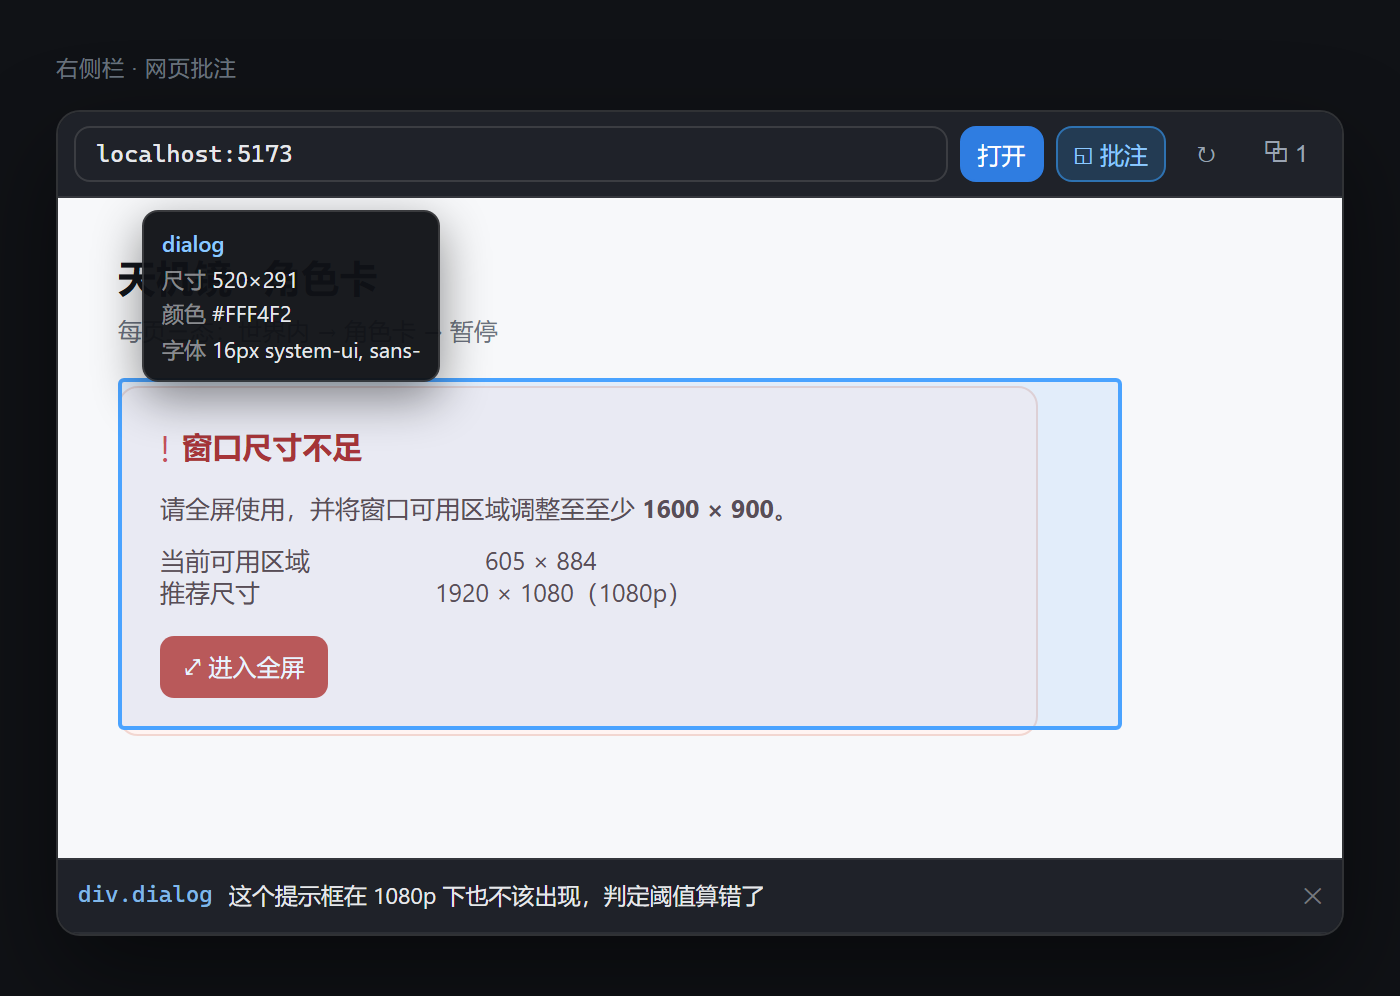
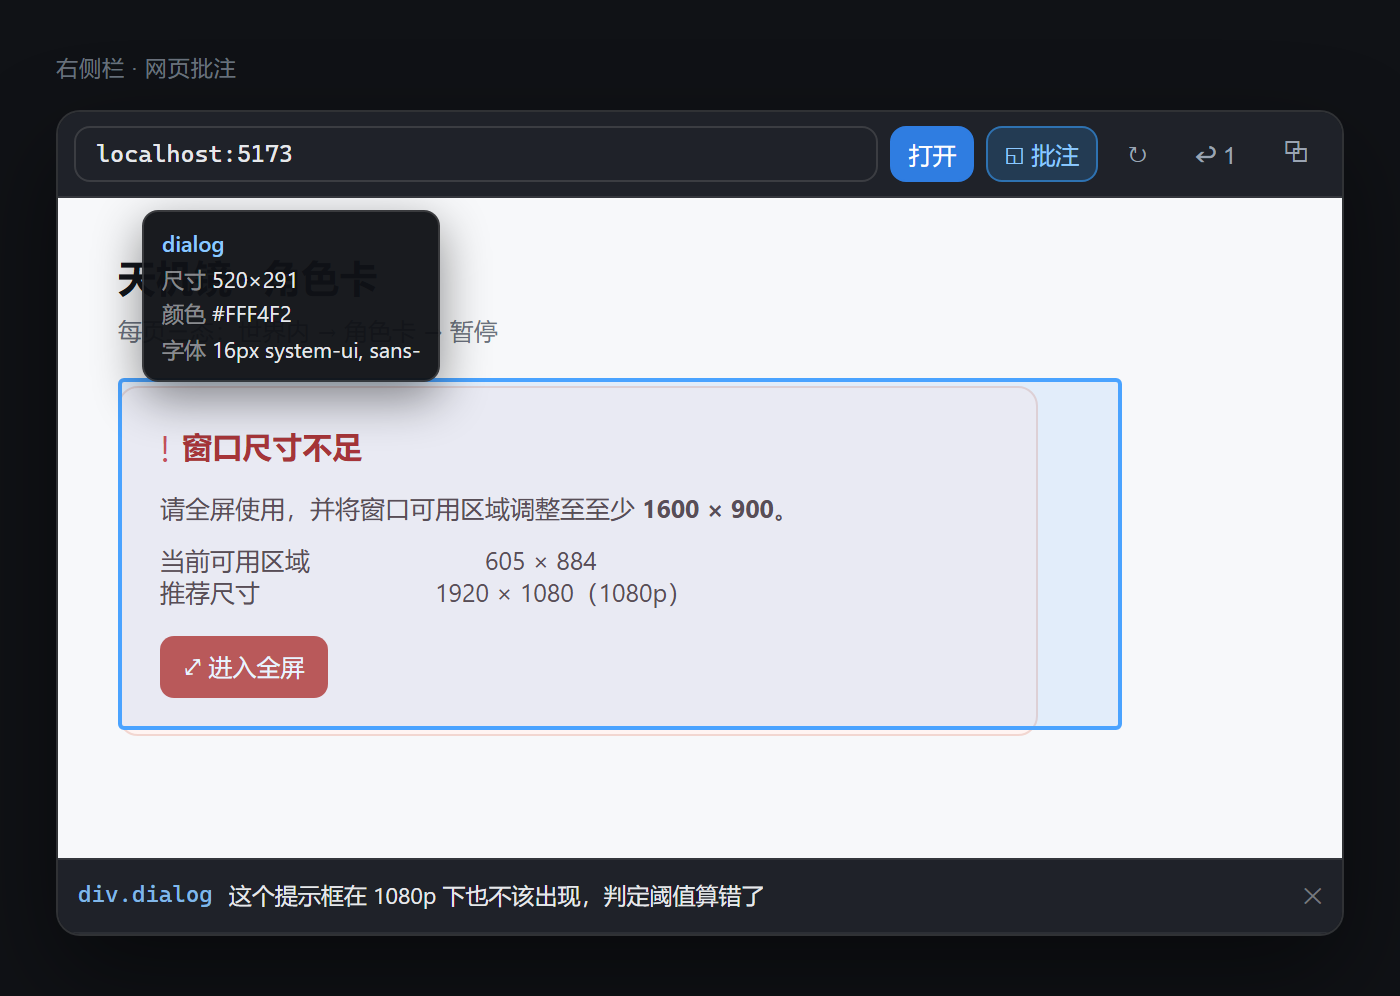
feat: 批注按页面地址持久化到 localStorage
- 打开 tab 时按 URL 恢复上次的批注，删完自动清空对应键

- 用 loaded 标志避免首帧空数组覆盖已存记录

- 自检补持久化断言；示意图更新工具栏按钮

Changed region(s): [[0.6143, 0.1245, 0.86, 0.1867], [0.8907, 0.1245, 0.9521, 0.1556]]

diff --git a/lib/client.js b/lib/client.js
@@ -49,6 +49,11 @@ window.__ModuleLoader__.load({
 			}
 		}
 
+		/** 批注按页面地址分键存在 localStorage，关掉 tab 再打开还在。 */
+		function notesStorageKey(url) {
+			return "dsh-web-annotate:notes:" + String(url || "");
+		}
+
 		// ------------------------------------------------------------ 通信
 
 		function post(path, body) {
@@ -184,6 +189,10 @@ window.__ModuleLoader__.load({
 			var dragRect = s11[0];
 			var setDragRect = s11[1];
 
+			var s12 = React.useState(false);
+			var notesLoaded = s12[0];
+			var setNotesLoaded = s12[1];
+
 			var stageRef = React.useRef(null);
 			var lastPickAt = React.useRef(0);
 			var pendingPick = React.useRef(null);
@@ -274,6 +283,37 @@ window.__ModuleLoader__.load({
 					document.removeEventListener("keydown", onKey, true);
 				};
 			}, []);
+
+			// ---- 批注持久化 ----
+			React.useEffect(function () {
+				setNotesLoaded(false);
+				if (!targetUrl) return;
+				var restored = [];
+				try {
+					var raw = window.localStorage.getItem(notesStorageKey(targetUrl));
+					if (raw) {
+						var parsed = JSON.parse(raw);
+						if (Array.isArray(parsed)) restored = parsed;
+					}
+				} catch (e) {
+					restored = [];
+				}
+				setNotes(restored);
+				setNotesLoaded(true);
+			}, [targetUrl]);
+
+			React.useEffect(function () {
+				if (!targetUrl || !notesLoaded) return;
+				try {
+					if (notes.length) {
+						window.localStorage.setItem(notesStorageKey(targetUrl), JSON.stringify(notes));
+					} else {
+						window.localStorage.removeItem(notesStorageKey(targetUrl));
+					}
+				} catch (e) {
+					// 隐私模式或配额满时静默放弃，批注仍然可用
+				}
+			}, [targetUrl, notes, notesLoaded]);
 
 			// ---- 坐标换算 ----
 			function stageBox() {

diff --git a/scripts/demo/annotate.html b/scripts/demo/annotate.html
@@ -167,7 +167,8 @@
         <button class="wa-btn primary">打开</button>
         <button class="wa-btn active">◱ 批注</button>
         <button class="wa-btn">↻</button>
-        <button class="wa-btn">⧉ 1</button>
+        <button class="wa-btn">↩ 1</button>
+        <button class="wa-btn">⧉</button>
       </div>
 
       <div class="wa-stage">

diff --git a/README.md b/README.md
@@ -28,6 +28,7 @@ Point at a live element inside the DSH sidebar, drop a comment on it, and get ba
 - **一键回填**：点 **↩** 把汇总直接写进对话输入框，不用复制粘贴。
 - **快捷键**：`Ctrl+Shift+.` 切换批注模式。
 - **交互转发**：退出拾取后，点击、滚轮、方向键、Enter、Tab、Esc、Backspace、PageUp/PageDown 都会转发给页面。
+- **批注留得住**：按页面地址存在 `localStorage`，关掉 tab 再打开还在；删完自动清空。
 
 ## 汇总长这样
 
@@ -98,7 +99,7 @@ Point at a live element inside the DSH sidebar, drop a comment on it, and get ba
 - 拾取模式会拦截点击与滚动，要操作页面（点按钮、输入）需先退出拾取。
 - 键盘只转发导航键与编辑键（方向键、Enter、Tab、Esc、Backspace、PageUp/PageDown），不转发可打印字符；中文输入法在页面内不可用。
 - 回填依赖 DSH 的 `conversation.input.left` 插槽存在。该插槽没挂上时自动退回复制到剪贴板。
-- 批注不持久化，刷新或关 tab 即丢。
+- 批注存在 `localStorage`，按页面地址分键；换浏览器 profile 或清理站点数据会丢。
 - 不支持跨 iframe 拾取（顶层文档之外的元素拿不到）。
 - 只在 Windows + DeepSeek Harness `0.2.x` 桌面端验证过。
 
@@ -132,7 +133,7 @@ dsh plugin --profile desktop add "link:/absolute/path/to/dsh-web-annotate"
 
 ## 更新记录
 
-- **0.2.0** — 批注汇总可直接回填输入框（在 `conversation.input.left` 挂桥接组件拿到 `inputActions`，桥不可用时退回复制）；新增 `Ctrl+Shift+.` 快捷键、拖动框选区域、方向键与编辑键转发。自检增至 17 项。
+- **0.2.0** — 批注汇总可直接回填输入框（在 `conversation.input.left` 挂桥接组件拿到 `inputActions`，桥不可用时退回复制）；新增 `Ctrl+Shift+.` 快捷键、拖动框选区域、方向键与编辑键转发、批注 `localStorage` 持久化。自检增至 17 项。
 - **0.1.0** — 首个版本。
 
 ## 许可证
